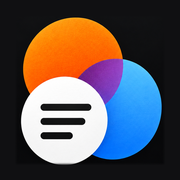
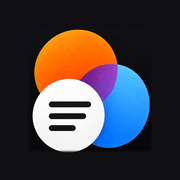
Icoon kleiner in vlak
Claude-Session: https://claude.ai/code/session_01EE9uzCfEhbv519ERd2yJgG

Changed region(s): [[0.1111, 0.0833, 0.9167, 0.9167], [0.5, 0.4722, 0.5278, 0.5]]

diff --git a/index.html b/index.html
@@ -4,8 +4,8 @@
 <meta charset="utf-8">
 <meta name="viewport" content="width=device-width, initial-scale=1">
 <title>Michaëls Startpagina</title>
-<link rel="apple-touch-icon" href="apple-touch-icon.png">
-<link rel="icon" type="image/png" href="icon-192.png">
+<link rel="apple-touch-icon" href="apple-touch-icon.png?v=2">
+<link rel="icon" type="image/png" href="icon-192.png?v=2">
 <link rel="preconnect" href="https://fonts.googleapis.com">
 <link rel="preconnect" href="https://fonts.gstatic.com" crossorigin>
 <link href="https://fonts.googleapis.com/css2?family=Bricolage+Grotesque:opsz,wght@12..96,400;12..96,600;12..96,800&family=Geist:wght@400;500;600&family=Geist+Mono:wght@400;500&display=swap" rel="stylesheet">
@@ -464,7 +464,7 @@ fetch("data.json", {cache:"no-store"}).then(r => { if (!r.ok) throw new Error(r.
   podThumbs();
   facts = d.weetjes || []; fi = seed % Math.max(facts.length,1); showFact();
   const b = d.bijgewerkt ? new Date(d.bijgewerkt) : null;
-  $("foot").textContent = b ? `Inhoud bijgewerkt op ${b.toLocaleString("nl-BE",{weekday:"long", day:"numeric", month:"long", hour:"2-digit", minute:"2-digit"})} · elke ochtend vernieuwd · v21` : "";
+  $("foot").textContent = b ? `Inhoud bijgewerkt op ${b.toLocaleString("nl-BE",{weekday:"long", day:"numeric", month:"long", hour:"2-digit", minute:"2-digit"})} · elke ochtend vernieuwd · v22` : "";
 }).catch(() => {
   $("health").innerHTML = `<div class="err">De gegevens konden niet geladen worden. Herlaad de pagina.</div>`;
 });
